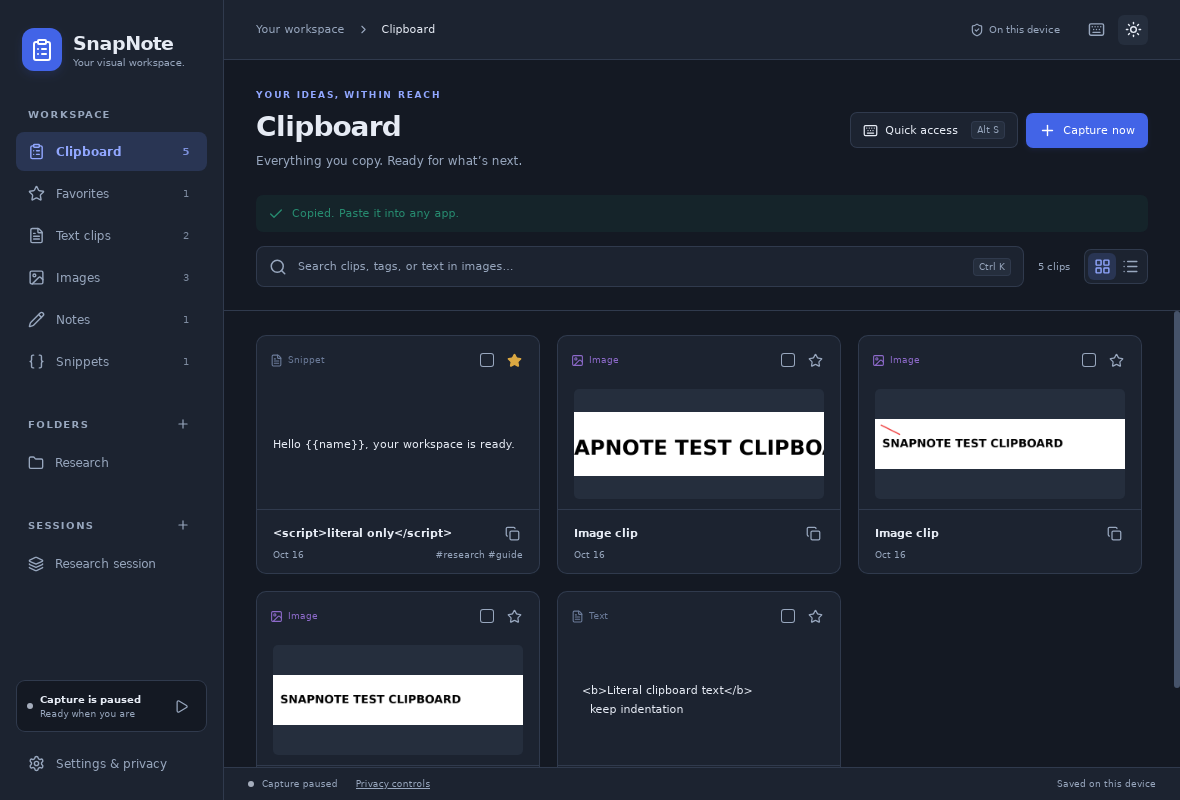
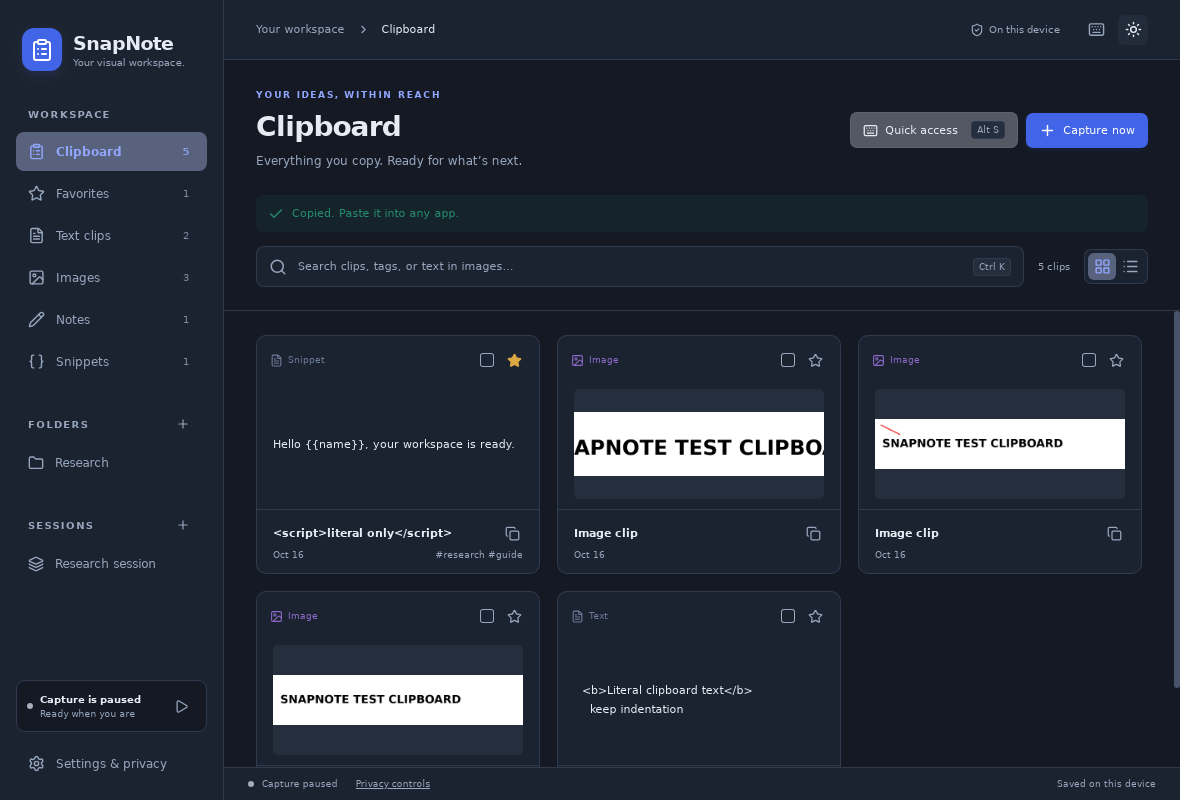
Record Windows feature progress and reliable Linux driver validation

Changed region(s): [[0.7017, 0.125, 0.8847, 0.1875], [0.0, 0.1562, 0.1831, 0.2188], [0.9153, 0.3125, 0.9458, 0.375]]

diff --git a/docs/testing/README.md b/docs/testing/README.md
@@ -15,7 +15,7 @@ Ten TypeScript tests cover legacy migration, transactional persistence and encry
 
 Windows is the primary target. The Windows workflow builds MSI/EXE installers and has a native WebView2 test stage using a separate app identifier. Windows results are pending. Recovery found and repaired the original shell-glob failure and a Windows checkout line-ending failure. Windows artifacts now go to `docs/testing/windows/`, so committed Linux evidence cannot masquerade as a successful Windows run. Linux evidence does not by itself establish Windows behavior. macOS runtime testing is not part of this validation pass.
 
-The Linux driver intermittently closed a connection in earlier attempts. Read-only polling tolerates a transient disconnect; mutating UI actions and IPC commands are never automatically retried. The final run completed all checks.
+The intermediary driver intermittently closed a connection in earlier Linux attempts. The harness now uses tauri-driver for capability translation and sends subsequent standard commands directly to the native driver. The updated harness completed all 24 Linux checks. Mutating UI actions and IPC commands are never automatically retried.
 
 Windows MSI and EXE packaging succeeded in [run 38851950555](https://github.com/Waqar-743/SnapNote/actions/runs/38851950555), but the initial native automation session timed out before any feature checks. A subsequent workflow explicitly installs WebView2, matches the driver to its runtime build and captures startup diagnostics. Runtime validation is still a release gate.
 

diff --git a/docs/testing/windows/README.md b/docs/testing/windows/README.md
@@ -4,4 +4,6 @@ MSI/EXE packaging succeeds. [startup.png](startup.png) is a real capture of the 
 
 This is startup evidence, not a completed Windows feature-test result. The automation connection did not open with the environment-only debugging option. The next test configuration sets its debugging port explicitly in `scripts/tauri.test.conf.json`, which uses the separate `come.codespace.snapnote.tests` identifier. Normal production configuration has no debugging port.
 
-The test workflow installs WebView2, matches EdgeDriver to the installed runtime, uses Microsoft's attach mode, saves process/startup diagnostics on failure, and uploads only the Windows artifact directory. Full native feature validation remains pending.
+The test workflow installs WebView2, matches EdgeDriver to the installed runtime, uses Microsoft's attach mode, and saves process/startup diagnostics on failure. Generated CI evidence lives in a fresh runner-temporary directory, separate from these committed snapshots.
+
+[Run 38854782395](https://github.com/Waqar-743/SnapNote/actions/runs/38854782395) attached successfully and passed startup, text capture/deduplication, pause/copy-back, image round-trip/OCR, and OCR search. Its next assertion exposed a test-input issue: EdgeDriver's clear command changed an input's DOM value without updating React's search state. The harness now clears fields through real key events. Full native feature validation remains pending.
